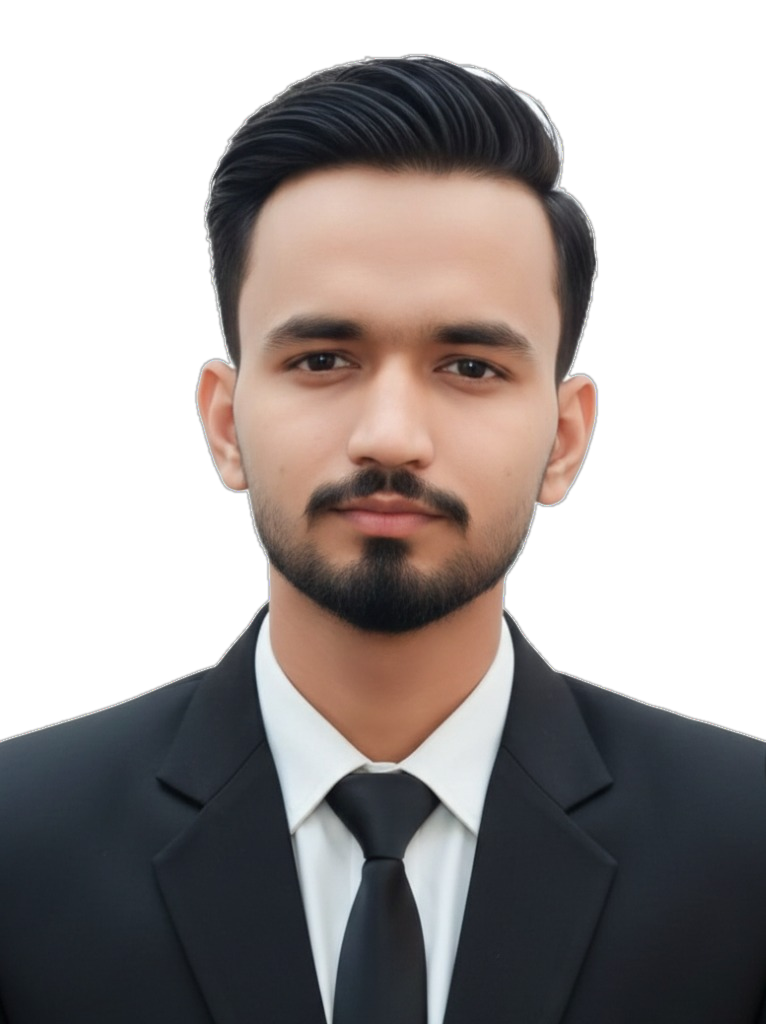
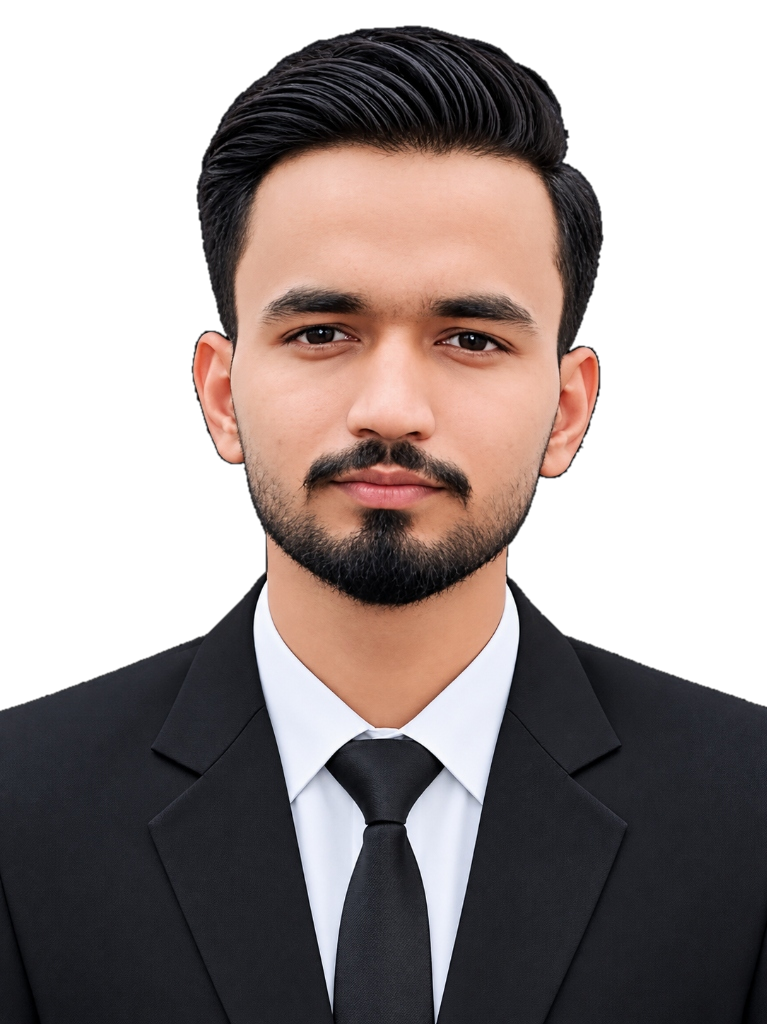
feat(hero): upgrade hero with crystal glass assembly animation, new suit cutout portrait, and red X facets

diff --git a/src/components/hero/CinematicHeroPanel.tsx b/src/components/hero/CinematicHeroPanel.tsx
@@ -1,15 +1,27 @@
 'use client';
 
-import React, { useRef, useState } from 'react';
+import React, { useRef, useState, useEffect } from 'react';
 import Image from 'next/image';
 import Link from 'next/link';
 import { ArrowUpRight } from 'lucide-react';
+import { motion, AnimatePresence } from 'framer-motion';
 import { playClickSound, playHoverSound } from '@/lib/sound';
 
 export function CinematicHeroPanel() {
   const panelRef = useRef<HTMLDivElement>(null);
   const [mousePos, setMousePos] = useState({ x: 0, y: 0 });
   const [isHovered, setIsHovered] = useState(false);
+  
+  // Animation Sequence Stage:
+  const [stage, setStage] = useState<'converging' | 'assembled'>('converging');
+
+  useEffect(() => {
+    const t = setTimeout(() => {
+      setStage('assembled');
+    }, 450);
+
+    return () => clearTimeout(t);
+  }, []);
 
   const handleMouseMove = (e: React.MouseEvent<HTMLDivElement>) => {
     if (!panelRef.current) return;
@@ -19,10 +31,62 @@ export function CinematicHeroPanel() {
     setMousePos({ x, y });
   };
 
+  // Flying glass particles/shards that join together to form the container
+  const convergingShards = [
+    { id: 1, initX: -350, initY: -220, initRot: -45, width: 140, height: 90 },
+    { id: 2, initX: 420, initY: -260, initRot: 35, width: 180, height: 110 },
+    { id: 3, initX: -400, initY: 180, initRot: 60, width: 160, height: 100 },
+    { id: 4, initX: 380, initY: 240, initRot: -30, width: 150, height: 95 },
+    { id: 5, initX: 0, initY: -320, initRot: 15, width: 200, height: 80 },
+    { id: 6, initX: 0, initY: 340, initRot: -20, width: 210, height: 85 },
+    { id: 7, initX: -500, initY: 0, initRot: -15, width: 120, height: 160 },
+    { id: 8, initX: 520, initY: 10, initRot: 25, width: 130, height: 170 },
+  ];
+
   return (
-    <div className="w-full max-w-6xl mx-auto px-3 sm:px-6">
-      {/* ONE WIDE FRAMED GLASS PANEL */}
-      <div
+    <div className="w-full max-w-6xl mx-auto px-3 sm:px-6 relative">
+      {/* ============================================================ */}
+      {/* STAGE 1: GLASS PARTICLES / SHARDS CONVERGING ANIMATION       */}
+      {/* ============================================================ */}
+      <AnimatePresence>
+        {stage !== 'assembled' && (
+          <div className="absolute inset-0 pointer-events-none z-40 flex items-center justify-center overflow-visible">
+            {convergingShards.map((shard) => (
+              <motion.div
+                key={shard.id}
+                initial={{
+                  x: shard.initX,
+                  y: shard.initY,
+                  rotate: shard.initRot,
+                  opacity: 0,
+                  scale: 0.4,
+                }}
+                animate={{
+                  x: stage === 'converging' ? 0 : shard.initX,
+                  y: stage === 'converging' ? 0 : shard.initY,
+                  rotate: stage === 'converging' ? 0 : shard.initRot,
+                  opacity: stage === 'converging' ? [0, 0.9, 0.4] : 0,
+                  scale: stage === 'converging' ? 1 : 0.4,
+                }}
+                transition={{
+                  duration: 1.1,
+                  ease: [0.16, 1, 0.3, 1],
+                }}
+                className="absolute rounded-2xl border border-[var(--accent,#E5262B)]/40 bg-gradient-to-br from-white/10 via-[var(--accent,#E5262B)]/15 to-transparent backdrop-blur-md shadow-[0_0_25px_rgba(229,38,43,0.3)]"
+                style={{
+                  width: `${shard.width}px`,
+                  height: `${shard.height}px`,
+                }}
+              />
+            ))}
+          </div>
+        )}
+      </AnimatePresence>
+
+      {/* ============================================================ */}
+      {/* STAGE 2 & 3: WIDE FRAMED GLASS CONTAINER FORMED              */}
+      {/* ============================================================ */}
+      <motion.div
         ref={panelRef}
         onMouseMove={handleMouseMove}
         onMouseEnter={() => setIsHovered(true)}
@@ -30,8 +94,22 @@ export function CinematicHeroPanel() {
           setIsHovered(false);
           setMousePos({ x: 0, y: 0 });
         }}
-        className="relative w-full rounded-[24px] sm:rounded-[36px] border border-white/15 bg-gradient-to-b from-white/[0.06] via-[#0c0c10]/92 to-[#07070a]/95 backdrop-blur-2xl overflow-hidden shadow-[0_25px_60px_-15px_rgba(0,0,0,0.95),0_0_40px_rgba(229,38,43,0.12)] min-h-[480px] sm:min-h-[560px] md:min-h-[600px] flex flex-col justify-end sm:justify-center transition-all duration-300"
+        initial={{ opacity: 0.3, scale: 0.97 }}
+        animate={{
+          opacity: 1,
+          scale: 1,
+        }}
+        transition={{ duration: 0.7, ease: [0.16, 1, 0.3, 1] }}
+        className="relative w-full rounded-[24px] sm:rounded-[36px] border border-white/15 bg-gradient-to-b from-white/[0.06] via-[#0c0c10]/92 to-[#07070a]/95 backdrop-blur-2xl overflow-hidden shadow-[0_25px_60px_-15px_rgba(0,0,0,0.95),0_0_40px_rgba(229,38,43,0.12)] min-h-[490px] sm:min-h-[560px] md:min-h-[600px] flex flex-col justify-end sm:justify-center transition-all duration-300"
       >
+        {/* Flash of specular crystallization when formed */}
+        <motion.div
+          initial={{ opacity: 0 }}
+          animate={{ opacity: [0, 0.6, 0] }}
+          transition={{ duration: 0.9, delay: 0.1 }}
+          className="absolute inset-0 bg-gradient-to-r from-transparent via-white/20 to-transparent pointer-events-none z-35"
+        />
+
         {/* Subtle holographic border reflection on hover */}
         <div
           className="absolute inset-0 rounded-[24px] sm:rounded-[36px] pointer-events-none transition-opacity duration-300 z-30"
@@ -49,7 +127,10 @@ export function CinematicHeroPanel() {
         {/* ============================================================ */}
         <div className="absolute inset-0 pointer-events-none overflow-hidden">
           {/* Intense red ambient backlight centered on the subject */}
-          <div
+          <motion.div
+            initial={{ opacity: 0.4, scale: 0.85 }}
+            animate={{ opacity: 1, scale: 1 }}
+            transition={{ duration: 1.0, delay: 0.15 }}
             className="absolute right-[0%] sm:right-[10%] md:right-[14%] top-1/2 -translate-y-1/2 w-[280px] sm:w-[460px] h-[280px] sm:h-[460px] rounded-full bg-gradient-to-tr from-[var(--accent,#E5262B)]/40 via-rose-600/25 to-transparent blur-[80px] sm:blur-[90px] pointer-events-none"
             style={{
               transform: `translate(${mousePos.x * 20}px, ${mousePos.y * 20}px)`,
@@ -59,7 +140,10 @@ export function CinematicHeroPanel() {
           {/* -------------------------------------------------------- */}
           {/* LAYER 1: BACKGROUND GEOMETRIC RED X SHARDS (Behind Photo) */}
           {/* -------------------------------------------------------- */}
-          <svg
+          <motion.svg
+            initial={{ opacity: 0.3, x: 30 }}
+            animate={{ opacity: 1, x: 0 }}
+            transition={{ duration: 0.8, delay: 0.2 }}
             className="absolute right-0 top-0 w-full sm:w-[85%] md:w-[70%] h-full pointer-events-none z-10"
             viewBox="0 0 700 620"
             preserveAspectRatio="none"
@@ -133,13 +217,20 @@ export function CinematicHeroPanel() {
               fill="#500508"
               opacity="0.4"
             />
-          </svg>
+          </motion.svg>
 
           {/* -------------------------------------------------------- */}
-          {/* LAYER 2: RUHUL'S CUTOUT PHOTO                            */}
+          {/* LAYER 2: RUHUL'S CUTOUT PHOTO (Animated Emergence)       */}
           {/* -------------------------------------------------------- */}
-          <div
-            className="absolute bottom-0 right-[-15px] sm:right-[8%] md:right-[12%] lg:right-[14%] h-[62%] sm:h-[86%] md:h-[94%] w-[185px] sm:w-[350px] md:w-[430px] z-15 flex items-end justify-center pointer-events-none transition-transform duration-200 ease-out"
+          <motion.div
+            initial={{ opacity: 0.3, y: 30, scale: 0.96 }}
+            animate={{
+              opacity: 1,
+              y: 0,
+              scale: 1,
+            }}
+            transition={{ duration: 0.9, delay: 0.25, ease: [0.16, 1, 0.3, 1] }}
+            className="absolute bottom-0 right-1 sm:right-[8%] md:right-[12%] lg:right-[14%] h-[68%] sm:h-[86%] md:h-[94%] w-[170px] sm:w-[350px] md:w-[430px] z-15 flex items-end justify-center pointer-events-none transition-transform duration-200 ease-out"
             style={{
               transform: `translate3d(${mousePos.x * 12}px, ${mousePos.y * 8}px, 0)`,
             }}
@@ -150,16 +241,19 @@ export function CinematicHeroPanel() {
                 alt="Ruhul Ameen"
                 fill
                 priority
-                sizes="(max-width: 640px) 185px, (max-width: 768px) 350px, 430px"
+                sizes="(max-width: 640px) 170px, (max-width: 768px) 350px, 430px"
                 className="object-contain object-bottom filter contrast-[1.05] brightness-[1.02] drop-shadow-[0_20px_40px_rgba(0,0,0,0.9)]"
               />
             </div>
-          </div>
+          </motion.div>
 
           {/* -------------------------------------------------------- */}
           {/* LAYER 3: FOREGROUND RED X GLASS SHARDS (Across Chest)    */}
           {/* -------------------------------------------------------- */}
-          <svg
+          <motion.svg
+            initial={{ opacity: 0.3, scale: 0.95 }}
+            animate={{ opacity: 1, scale: 1 }}
+            transition={{ duration: 0.8, delay: 0.35, ease: [0.16, 1, 0.3, 1] }}
             className="absolute right-0 top-0 w-full sm:w-[85%] md:w-[70%] h-full pointer-events-none z-20"
             viewBox="0 0 700 620"
             preserveAspectRatio="none"
@@ -220,26 +314,42 @@ export function CinematicHeroPanel() {
               strokeWidth="0.8"
               opacity="0.75"
             />
-          </svg>
+          </motion.svg>
         </div>
 
         {/* ============================================================ */}
-        {/* OVERLAID LEFT CONTENT: HUGE NAME, ROLE LINE, TWO BUTTONS     */}
+        {/* OVERLAID LEFT CONTENT: ANIMATED NAME, ROLE LINE & BUTTONS   */}
         {/* ============================================================ */}
         <div className="relative z-30 px-5 sm:px-10 md:px-16 py-8 sm:py-14 md:py-16 max-w-[220px] sm:max-w-xl space-y-3.5 sm:space-y-6">
-          {/* Huge Name - Matching Reference Board Panel 2 (SANTHOSH M) */}
-          <div className="space-y-1 sm:space-y-2">
+          {/* Animated Name */}
+          <motion.div
+            initial={{ opacity: 0.3, y: 20 }}
+            animate={{
+              opacity: 1,
+              y: 0,
+            }}
+            transition={{ duration: 0.7, delay: 0.3, ease: [0.16, 1, 0.3, 1] }}
+            className="space-y-1 sm:space-y-2"
+          >
             <h1 className="text-2xl sm:text-5xl md:text-6xl lg:text-7xl font-sans font-black tracking-tight text-white leading-[0.95] select-none">
               RUHUL AMEEN
             </h1>
-            {/* Role line */}
+            {/* Animated Role line */}
             <p className="text-[10px] sm:text-sm font-mono uppercase tracking-widest text-neutral-400 font-medium">
               Video Editor &amp; Creative Developer
             </p>
-          </div>
+          </motion.div>
 
-          {/* Two Buttons - Minimal & Clean */}
-          <div className="flex flex-col sm:flex-row items-start sm:items-center gap-2 sm:gap-3 pt-1">
+          {/* Animated Two Buttons */}
+          <motion.div
+            initial={{ opacity: 0.3, y: 15 }}
+            animate={{
+              opacity: 1,
+              y: 0,
+            }}
+            transition={{ duration: 0.7, delay: 0.4, ease: [0.16, 1, 0.3, 1] }}
+            className="flex flex-col sm:flex-row items-start sm:items-center gap-2 sm:gap-3 pt-1"
+          >
             <Link
               href="#work"
               onClick={playClickSound}
@@ -259,9 +369,9 @@ export function CinematicHeroPanel() {
               <span>Get in touch</span>
               <ArrowUpRight className="w-3.5 sm:w-4 h-3.5 sm:h-4 text-[var(--accent,#E5262B)]" />
             </Link>
-          </div>
+          </motion.div>
         </div>
-      </div>
+      </motion.div>
     </div>
   );
 }
